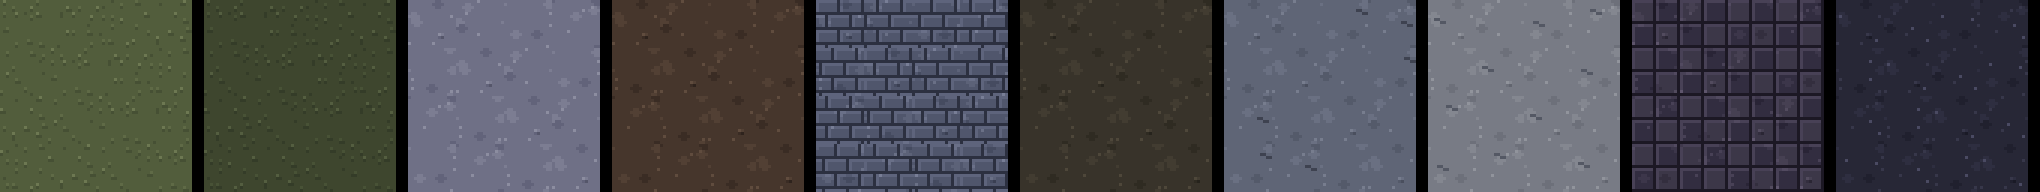
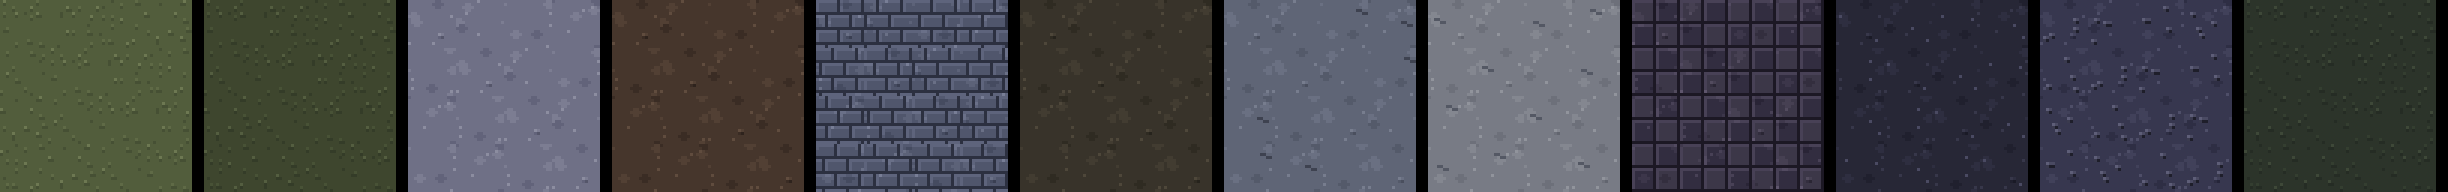
Karte 08: Fels-Variation (Geroell, Moos, Risse), Schlossplatz-Paare symmetrisch, neue PixelLab-Gruppen Krypta/Fels (Vorbereitung)
Claude-Session: https://claude.ai/code/session_01SaoYHKhnro4LFcPJqjaPsq

diff --git a/tools/pixellab_objekte.py b/tools/pixellab_objekte.py
@@ -723,6 +723,27 @@ OBJEKTGRUPPEN_K8 = {
         'stone gargoyle statue on a pedestal, perfectly straight front elevation view, symmetric, facing the camera head-on, no side wall visible, no perspective, no isometric, flat orthographic, classic 2D handheld RPG style', 'cluster of melting candles, perfectly straight front elevation view, symmetric, facing the camera head-on, no side wall visible, no perspective, no isometric, flat orthographic, classic 2D handheld RPG style',
         'dead thorny bush, perfectly straight front elevation view, symmetric, facing the camera head-on, no side wall visible, no perspective, no isometric, flat orthographic, classic 2D handheld RPG style', 'wooden signpost with a skull, perfectly straight front elevation view, symmetric, facing the camera head-on, no side wall visible, no perspective, no isometric, flat orthographic, classic 2D handheld RPG style',
     ]},
+    'k8_krypta': {'size': 128, 'items': [
+        'small gothic crypt house of dark grey stone with a steep dark slate tiled roof, arched iron barred door in the middle, two narrow gothic windows, small stone cross on the roof ridge, seen from the front and slightly above so both slopes of the roof and the roof ridge are visible, like a house in a classic 2D handheld RPG town, facade facing the camera, symmetric, not isometric',
+        'old ruined crypt house, cracked grey stone walls with moss, partly collapsed slate roof with broken beams, dark open doorway, seen from the front and slightly above so both slopes of the roof and the roof ridge are visible, like a house in a classic 2D handheld RPG town, facade facing the camera, symmetric, not isometric',
+        'gothic mausoleum house of pale limestone with a steep slate roof, a stone cross on the ridge, two pillars beside a pointed arch iron door, seen from the front and slightly above so both slopes of the roof and the roof ridge are visible, like a house in a classic 2D handheld RPG town, facade facing the camera, symmetric, not isometric',
+        'small family crypt house of mossy dark stone with a pointed slate roof, wooden door with iron fittings, lantern hook above the door, seen from the front and slightly above so both slopes of the roof and the roof ridge are visible, like a house in a classic 2D handheld RPG town, facade facing the camera, symmetric, not isometric',
+    ]},
+    'k8_fels': {'size': 64, 'items': [
+        'jagged black rock spire, perfectly straight front elevation view, symmetric, facing the camera head-on, no side wall visible, no perspective, no isometric, flat orthographic, classic 2D handheld RPG style', 'cluster of dark purple crystals growing out of black rock, perfectly straight front elevation view, symmetric, facing the camera head-on, no side wall visible, no perspective, no isometric, flat orthographic, classic 2D handheld RPG style',
+        'cracked dark boulder with a little moss, perfectly straight front elevation view, symmetric, facing the camera head-on, no side wall visible, no perspective, no isometric, flat orthographic, classic 2D handheld RPG style', 'heap of grey rock rubble, perfectly straight front elevation view, symmetric, facing the camera head-on, no side wall visible, no perspective, no isometric, flat orthographic, classic 2D handheld RPG style',
+        'skeleton half buried in gravel, perfectly straight front elevation view, symmetric, facing the camera head-on, no side wall visible, no perspective, no isometric, flat orthographic, classic 2D handheld RPG style', 'dead thorny bush growing from a rock crack, perfectly straight front elevation view, symmetric, facing the camera head-on, no side wall visible, no perspective, no isometric, flat orthographic, classic 2D handheld RPG style',
+        'tall pointed obsidian stalagmite, perfectly straight front elevation view, symmetric, facing the camera head-on, no side wall visible, no perspective, no isometric, flat orthographic, classic 2D handheld RPG style', 'fallen broken ancient stone pillar lying on the ground, perfectly straight front elevation view, symmetric, facing the camera head-on, no side wall visible, no perspective, no isometric, flat orthographic, classic 2D handheld RPG style',
+        'old rusty sword stuck in a rock, perfectly straight front elevation view, symmetric, facing the camera head-on, no side wall visible, no perspective, no isometric, flat orthographic, classic 2D handheld RPG style', 'horned ram skull on a flat stone, perfectly straight front elevation view, symmetric, facing the camera head-on, no side wall visible, no perspective, no isometric, flat orthographic, classic 2D handheld RPG style',
+        'glowing purple crystal shard in black rock, perfectly straight front elevation view, symmetric, facing the camera head-on, no side wall visible, no perspective, no isometric, flat orthographic, classic 2D handheld RPG style', 'flat dark slab rocks, perfectly straight front elevation view, symmetric, facing the camera head-on, no side wall visible, no perspective, no isometric, flat orthographic, classic 2D handheld RPG style',
+        'pile of rocks with a dead branch, perfectly straight front elevation view, symmetric, facing the camera head-on, no side wall visible, no perspective, no isometric, flat orthographic, classic 2D handheld RPG style', 'black rock with a rusty iron chain, perfectly straight front elevation view, symmetric, facing the camera head-on, no side wall visible, no perspective, no isometric, flat orthographic, classic 2D handheld RPG style',
+        'ancient dark runestone with carved glowing violet runes, perfectly straight front elevation view, symmetric, facing the camera head-on, no side wall visible, no perspective, no isometric, flat orthographic, classic 2D handheld RPG style', 'weathered stone gargoyle head lying in gravel, perfectly straight front elevation view, symmetric, facing the camera head-on, no side wall visible, no perspective, no isometric, flat orthographic, classic 2D handheld RPG style',
+    ]},
+    'k8_fels_klein': {'size': 32, 'items': [
+        'small black pebbles', 'small dark rock', 'tiny purple crystal', 'small bone in gravel', 'cracked small stone',
+        'small grey rubble', 'dry dead twig on rock', 'tiny dead weed', 'small skull on gravel', 'two small dark stones',
+        'tiny glowing violet mushroom', 'small flat stone',
+    ]},
     'k8_klein': {'size': 32, 'items': [
         'white bone lying on the ground', 'small skull', 'cluster of small glowing purple mushrooms',
         'small brown toadstool', 'tuft of dry dead grass', 'small grey pebbles', 'single lit candle',

diff --git a/tools/karte08_objekte.py b/tools/karte08_objekte.py
@@ -27,10 +27,13 @@ GRAEBER = ['mittel/00', 'mittel/01', 'mittel/02', 'mittel/03', 'mittel/04', 'gra
 # (sprite, Kachel-x, Kachel-y [Fusskachel], Optionen)
 FEST = [
     ('schloss/00', 55, 11, {'keine_verdeckung': True}),
-    ('graeber/09', 47, 14, {}), ('graeber/09', 63, 14, {'spiegeln': True}),                # Gargoyles am Schlossplatz
-    ('mittel/06', 51, 18, {'anim': 'fahne'}), ('mittel/06', 59, 18, {'anim': 'fahne', 'spiegeln': True}),
-    ('mittel/07', 45, 17, {}), ('mittel/07', 65, 17, {'spiegeln': True}),
-    ('mittel/05', 50, 15, {'anim': 'geisterlicht'}), ('mittel/05', 60, 15, {'anim': 'geisterlicht'}),
+    # Schlossplatz: Paare exakt spiegelsymmetrisch zur Schlossachse (symmetrie() nach regeln_v11)
+    ('graeber/09', 48, 14, {'symm': 'garg'}), ('graeber/09', 62, 14, {'spiegeln': True, 'symm': 'garg'}),
+    ('mittel/06', 51, 18, {'anim': 'fahne', 'symm': 'banner'}),
+    ('mittel/06', 59, 18, {'anim': 'fahne', 'spiegeln': True, 'symm': 'banner'}),
+    ('mittel/07', 45, 17, {'symm': 'saeule'}), ('mittel/07', 65, 17, {'spiegeln': True, 'symm': 'saeule'}),
+    ('mittel/05', 51, 13, {'anim': 'geisterlicht', 'symm': 'laterne'}),
+    ('mittel/05', 59, 13, {'anim': 'geisterlicht', 'spiegeln': True, 'symm': 'laterne'}),
     # Mausoleum mit Laternen, Gruften
     ('gross/00', 54, 67, {}),
     ('mittel/05', 49, 68, {'anim': 'geisterlicht'}), ('mittel/05', 59, 68, {'anim': 'geisterlicht'}),
@@ -204,7 +207,8 @@ def main():
 
     # 1) grosse und feste Objekte
     for (name, tx, ty, opt) in FEST:
-        setze(name, tx, ty, opt, suchen=True)
+        if setze(name, tx, ty, opt, suchen='symm' not in opt) is None and 'symm' in opt:
+            print('  Symmetrie-Paar passt nicht:', name, (tx, ty))
     # 2) Grabreihen auf der Graberde: Fuss in der obersten Erdzeile jedes Feldes, unregelmaessige Abstaende
     for ty in range(1, rows):
         for tx in range(cols):
@@ -259,5 +263,32 @@ def main():
     print(len(objekte), 'Objekte am Raster gesetzt')
 
 
+ACHSE = 888                      # Schlossachse in px (Mitte des Schlossplatzes, Kacheln 47-63)
+
+
+def symmetrie():
+    """Gleiche Objekte buendig/symmetrisch: das rechte Objekt jedes Paars wird exakt an der Schlossachse
+    gespiegelt zum linken gesetzt (gleiche Hoehe, gleicher Abstand zur Achse)."""
+    pf = os.path.join(OBJ, 'platzierung.json')
+    objs = json.load(open(pf))
+    paare = {}
+    for o in objs:
+        if o.get('symm'):
+            paare.setdefault(o['symm'], []).append(o)
+    for name, ps in paare.items():
+        if len(ps) != 2:
+            print('  Paar unvollstaendig:', name, len(ps))
+            continue
+        l, r = sorted(ps, key=lambda o: o['x'])
+        w = Image.open(os.path.join(OBJ, l['datei'])).width
+        r['x'], r['y'] = 2 * ACHSE - l['x'] - w, l['y']
+        if 'block' in l:
+            bx, by, wt, ht = l['block']
+            r['block'] = [2 * ACHSE // T - bx - wt, by, wt, ht]
+            r['kachel'] = [2 * ACHSE // T - 1 - l['kachel'][0], l['kachel'][1]]
+    json.dump(objs, open(pf, 'w'), indent=0)
+    print('Symmetrie: %d Paare gespiegelt' % len(paare))
+
+
 if __name__ == '__main__':
-    main()
+    symmetrie() if sys.argv[1:] == ['symmetrie'] else main()

diff --git a/tools/karte08_bauen.py b/tools/karte08_bauen.py
@@ -56,6 +56,37 @@ def ebenen_masken(hoehe, cols, rows):
     return m
 
 
+def fels_variation(a, m, cls, cols, rows):
+    """Schwarzer Fels lebendiger: helle Geroellfelder, dunkle Moosflecken, Risse mit Lichtkante (Licht oben links)."""
+    Hh, W = m.shape
+    for art, seed, schwelle in (('R', 51, 0.62), ('M', 52, 0.68)):
+        n = np.random.RandomState(seed).rand(Hh // 40 + 2, W // 40 + 2)
+        n = np.array(Image.fromarray((n * 255).astype(np.uint8)).resize((W + 80, Hh + 80), Image.BICUBIC))[:Hh, :W] / 255.0
+        f = np.random.RandomState(seed + 9).rand(Hh // 10 + 2, W // 10 + 2)
+        f = np.array(Image.fromarray((f * 255).astype(np.uint8)).resize((W + 20, Hh + 20), Image.BICUBIC))[:Hh, :W] / 255.0
+        fleck = m & (n * 0.8 + f * 0.2 > schwelle)
+        fleck = np.array(Image.fromarray((fleck * 255).astype(np.uint8)).filter(ImageFilter.ModeFilter(5))) > 0
+        fleck &= m
+        tx = textur(cls, art, cols, rows)
+        a[fleck] = tx[fleck]
+        rand = fleck & ~(np.roll(fleck, 1, 0) & np.roll(fleck, -1, 0) & np.roll(fleck, 1, 1) & np.roll(fleck, -1, 1))
+        a[rand] = (a[rand] * 0.82).astype(np.uint8)
+    rs = random.Random(53)
+    ys, xs = np.nonzero(m)
+    for _ in range(len(ys) // 2600):                       # Risse
+        i = rs.randrange(len(ys)); y, x = float(ys[i]), float(xs[i])
+        w = rs.uniform(0, 6.28)
+        for _k in range(rs.randint(8, 22)):
+            w += rs.uniform(-0.7, 0.7)
+            y += math.sin(w); x += math.cos(w)
+            yi, xi = int(y), int(x)
+            if not (1 <= yi < Hh - 1 and 1 <= xi < W - 1) or not m[yi, xi]:
+                break
+            a[yi, xi] = H('#0a0a10')
+            if m[yi + 1, xi + 1]:
+                a[yi + 1, xi + 1] = H('#3c3c52')
+
+
 def sumpf_zeichnen(a, m, frame):
     """Sumpfwasser: Wasser aus Karte 01, trueb dunkelgruen getoent, mit Entengruetze-Flecken."""
     k4.wasser_zeichnen(a, m, frame, np.zeros_like(m))
@@ -204,6 +235,7 @@ def bauen(frame=None, speichern=True):
     a[km] = tx[km]
     tx = textur(cls, 'r', cols, rows)
     a[em[7]] = tx[em[7]]
+    fels_variation(a, em[7], cls, cols, rows)
     # --- Sumpf (vertieft wie Karte 01, Schlammrand)
     sumpf = weich(zell_maske(cls, 'x', cols, rows), 9, 0.2, 24, 0.45) & ~em[2]
     sumpf = k4.splitter_weg(sumpf, 200)

diff --git a/tools/karte08_kacheln.py b/tools/karte08_kacheln.py
@@ -27,6 +27,8 @@ RAMPEN = {
     'a': ('sand', ['#62656f', '#6d707a', '#787b85', '#848790', '#91949c']),
     'k': ('sand', ['#2a2634', '#332e3e', '#3c3748', '#464052', '#524b5e']),
     'r': ('sand', ['#1a1a26', '#20202e', '#272736', '#2e2e40', '#37374a']),
+    'R': ('sand', ['#26263a', '#2e2e44', '#37374f', '#41415a', '#4e4e68']),      # helleres Geroell auf dem Fels
+    'M': ('gras', ['#181c18', '#1e241e', '#252c24', '#2c342a', '#343e30', '#3e4838']),  # Moos auf dem Fels
 }
 
 
@@ -69,6 +71,11 @@ def kachel(art, v):
             x, y = r.randint(2, 12), r.randint(2, 13)
             for d in range(4):
                 im.putpixel(((x + d) % 16, (y + d // 2) % 16), H('#3e4250' if art == 'f' else '#545864'))
+    if art == 'R':                                          # Geroell: Steinchen mit Lichtkante oben links
+        for _ in range(4):
+            x, y = r.randint(1, 13), r.randint(1, 13)
+            im.putpixel((x, y), H('#5e5e78')); im.putpixel((x + 1, y), H('#4a4a62'))
+            im.putpixel((x, y + 1), H('#3a3a4e')); im.putpixel((x + 1, y + 1), H('#1e1e2a'))
     if art == 'r':                                          # Geroell: kleine helle Kanten
         for _ in range(2):
             x, y = r.randint(1, 14), r.randint(1, 14)
@@ -76,7 +83,7 @@ def kachel(art, v):
     return im
 
 
-ARTEN = 'ghweqmfakr'
+ARTEN = 'ghweqmfakrRM'
 
 
 def main():
